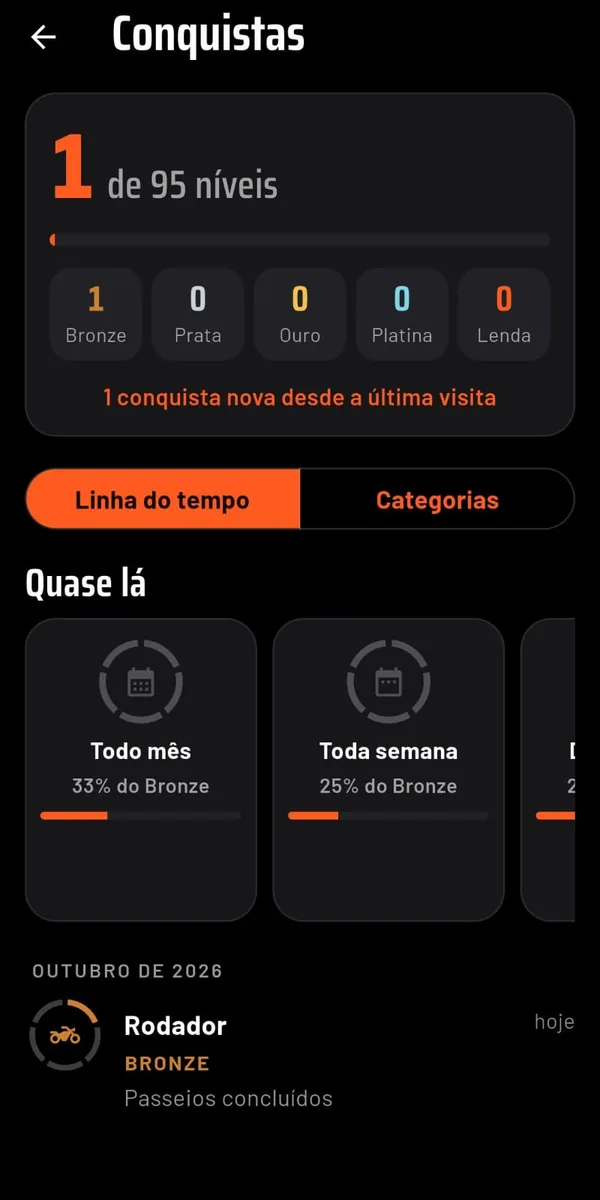
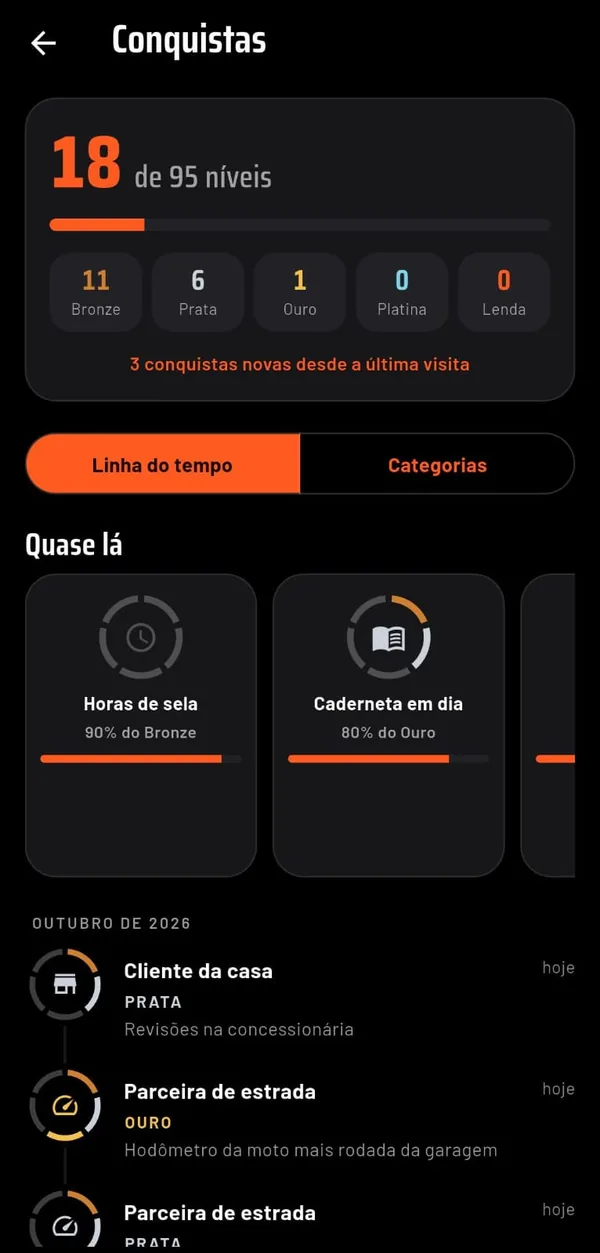
Prints novos com dados de demonstracao

diff --git a/index.html b/index.html
@@ -285,13 +285,13 @@
     <div class="envoltorio">
       <div class="cabeca"><h2>Por dentro do app</h2></div>
       <div class="telas">
-        <figure class="celular"><div class="moldura"><img src="assets/img/telas/inicio.webp" width="600" height="1237" loading="lazy" alt="Tela Início: saudação, previsão do tempo, painel do mês com km rodados, passeios e tempo em movimento, e a moto em uso"></div><figcaption>Início: o mês, o clima e a moto em uso</figcaption></figure>
-        <figure class="celular"><div class="moldura"><img src="assets/img/telas/resumo-passeio.webp" width="600" height="1236" loading="lazy" alt="Resumo do passeio com a conquista ganha, distância, tempo, velocidades, combustível estimado e bateria usada"></div><figcaption>Resumo do passeio com as conquistas</figcaption></figure>
-        <figure class="celular"><div class="moldura"><img src="assets/img/telas/compartilhar-passeio.webp" width="600" height="1064" loading="lazy" alt="Imagem de compartilhar o passeio, com a bússola do RPM e os números do passeio"></div><figcaption>Imagem do passeio para as redes</figcaption></figure>
-        <figure class="celular"><div class="moldura"><img src="assets/img/telas/garagem.webp" width="600" height="1240" loading="lazy" alt="Garagem com a moto em uso, tanque, oficina, gastos e atalhos para abastecer, revisão, despesa, hodômetro e checkup"></div><figcaption>Garagem com tanque, oficina e atalhos</figcaption></figure>
-        <figure class="celular"><div class="moldura"><img src="assets/img/telas/historico.webp" width="600" height="1242" loading="lazy" alt="Histórico em linha do tempo com passeios e manutenções, com filtros por moto, período e tipo de registro"></div><figcaption>Histórico de passeios e manutenções</figcaption></figure>
-        <figure class="celular"><div class="moldura"><img src="assets/img/telas/perfil.webp" width="600" height="1247" loading="lazy" alt="Perfil com o resumo das conquistas por nível, ficha de segurança e detecção de queda"></div><figcaption>Perfil com conquistas e segurança</figcaption></figure>
-        <figure class="celular"><div class="moldura"><img src="assets/img/telas/conquistas.webp" width="600" height="1200" loading="lazy" alt="Conquistas com a linha do tempo, as medalhas quase conquistadas e os níveis de Bronze a Lenda"></div><figcaption>Conquistas de Bronze a Lenda</figcaption></figure>
+        <figure class="celular"><div class="moldura"><img src="assets/img/telas/inicio.webp" width="600" height="1231" loading="lazy" alt="Tela Início: saudação, previsão do tempo, painel do mês com km rodados, passeios, tempo em movimento e subida, e a moto em uso com hodômetro e tanque"></div><figcaption>Início: o mês, o clima e a moto em uso</figcaption></figure>
+        <figure class="celular"><div class="moldura"><img src="assets/img/telas/resumo-passeio.webp" width="600" height="1224" loading="lazy" alt="Resumo do passeio com distância, tempo em movimento, velocidades média e máxima, combustível e custo estimados, bateria usada e altimetria"></div><figcaption>Resumo do passeio: tempos, custo e bateria</figcaption></figure>
+        <figure class="celular"><div class="moldura"><img src="assets/img/telas/garagem.webp" width="600" height="1236" loading="lazy" alt="Garagem com o hodômetro, o contagiro do tanque com a autonomia, a próxima manutenção, gastos, consumo e atalhos"></div><figcaption>Garagem com tanque, oficina e atalhos</figcaption></figure>
+        <figure class="celular"><div class="moldura"><img src="assets/img/telas/historico.webp" width="600" height="1237" loading="lazy" alt="Histórico em linha do tempo com manutenções, filtros por moto, período e tipo de registro, e o total gasto"></div><figcaption>Histórico de passeios, abastecimentos e manutenções</figcaption></figure>
+        <figure class="celular"><div class="moldura"><img src="assets/img/telas/avisos.webp" width="600" height="1218" loading="lazy" alt="Central de avisos com uma medalha nova e os itens de manutenção vencidos da moto"></div><figcaption>Central de avisos da moto e das conquistas</figcaption></figure>
+        <figure class="celular"><div class="moldura"><img src="assets/img/telas/perfil.webp" width="600" height="1242" loading="lazy" alt="Perfil com km, passeios e medalhas, a moto destaque do mês, as conquistas por nível e a ficha de segurança"></div><figcaption>Perfil com conquistas e ficha de segurança</figcaption></figure>
+        <figure class="celular"><div class="moldura"><img src="assets/img/telas/conquistas.webp" width="600" height="1253" loading="lazy" alt="Conquistas com o total de níveis, as medalhas quase conquistadas e a linha do tempo"></div><figcaption>Conquistas de Bronze a Lenda</figcaption></figure>
       </div>
     </div>
   </section>
